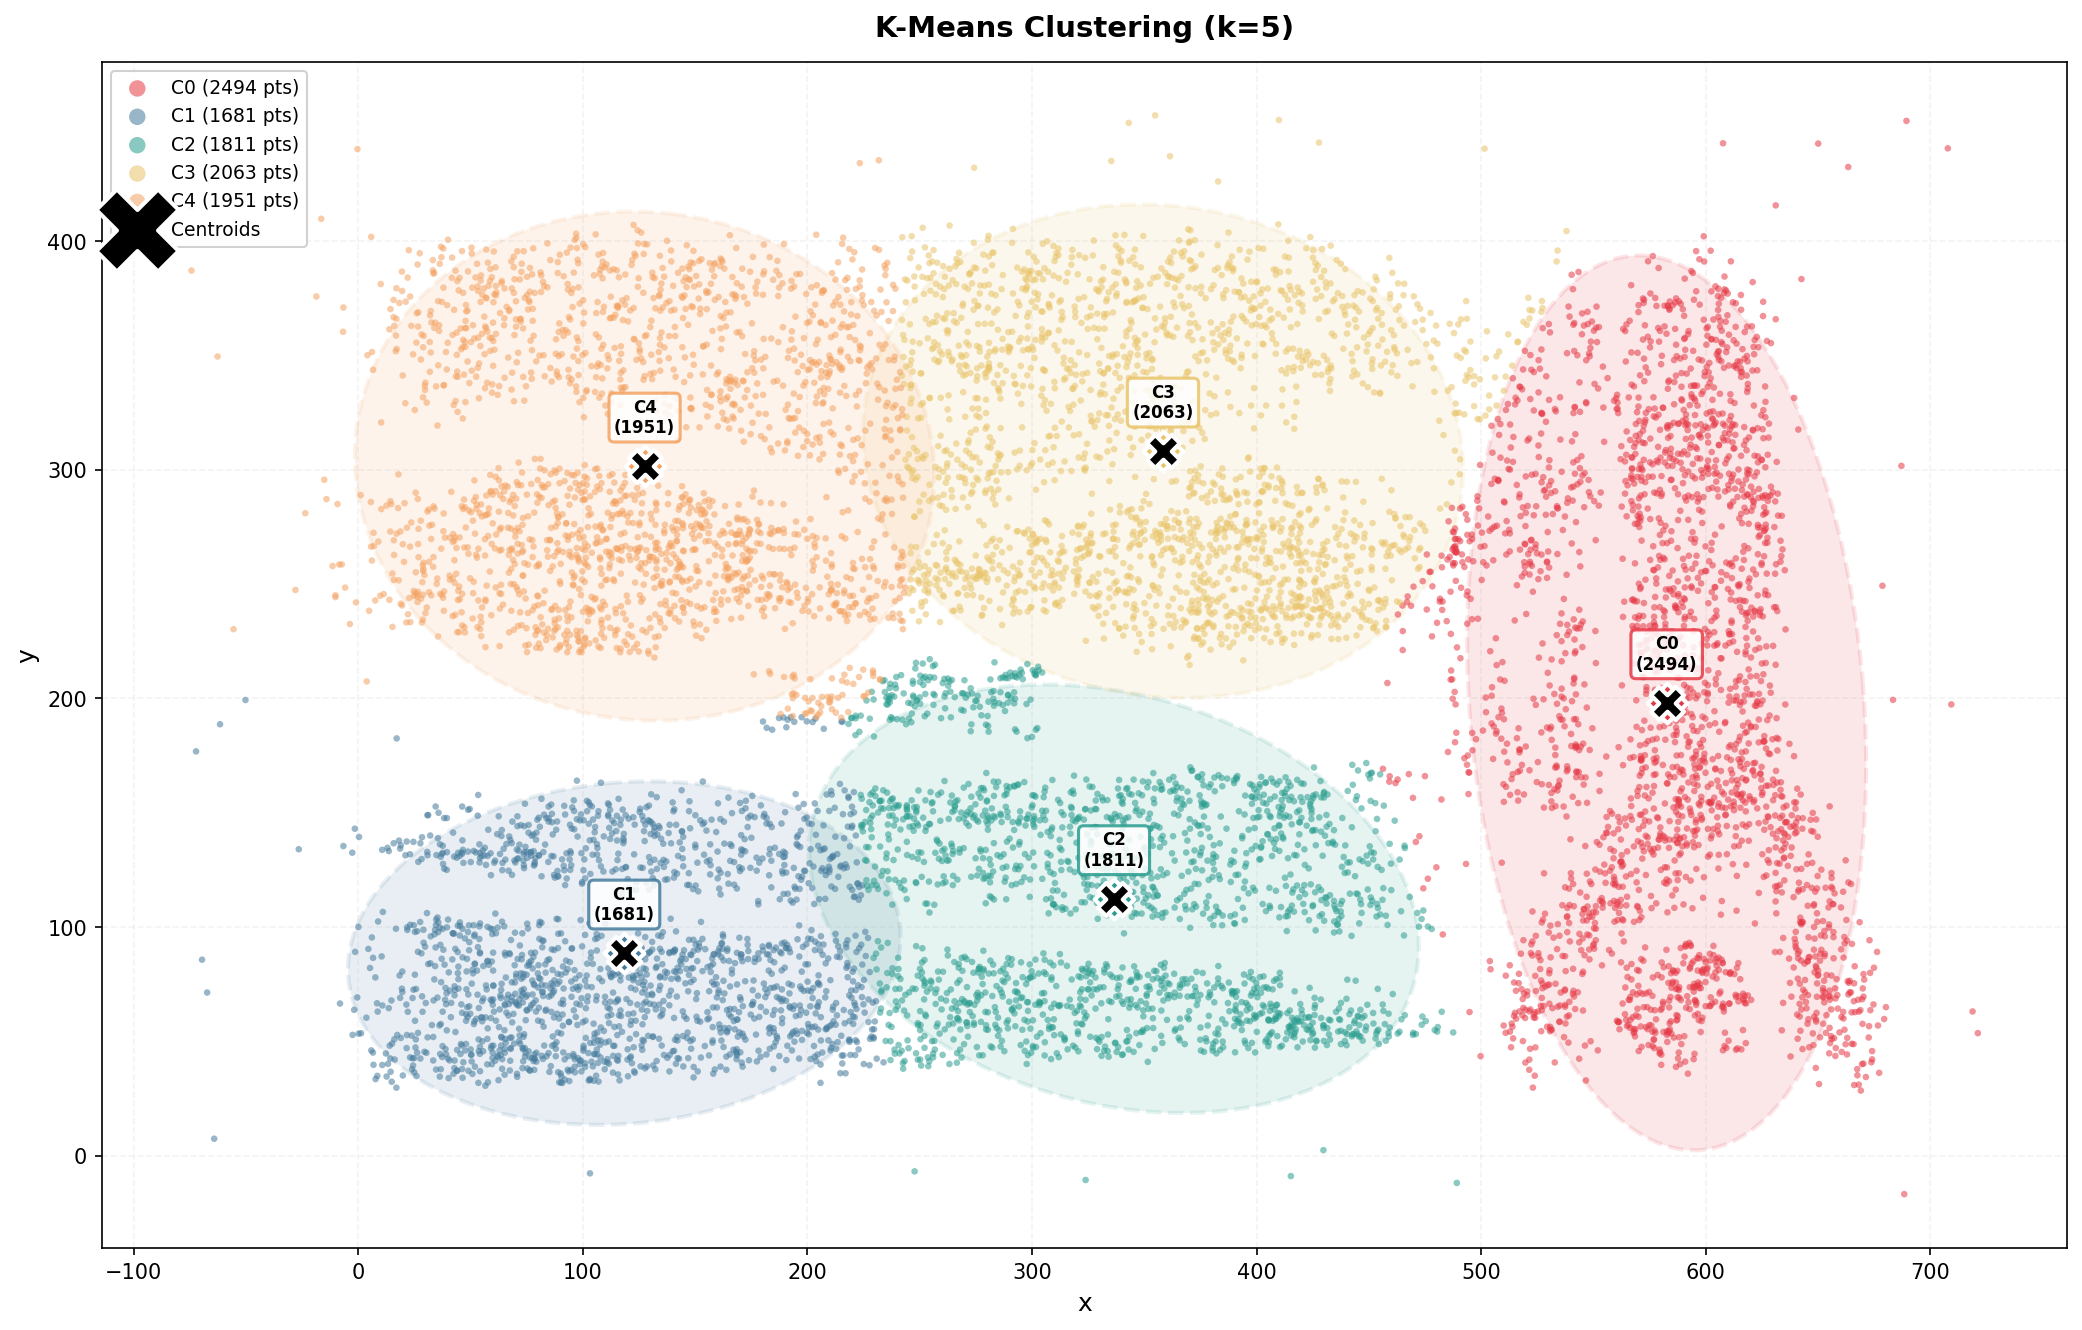
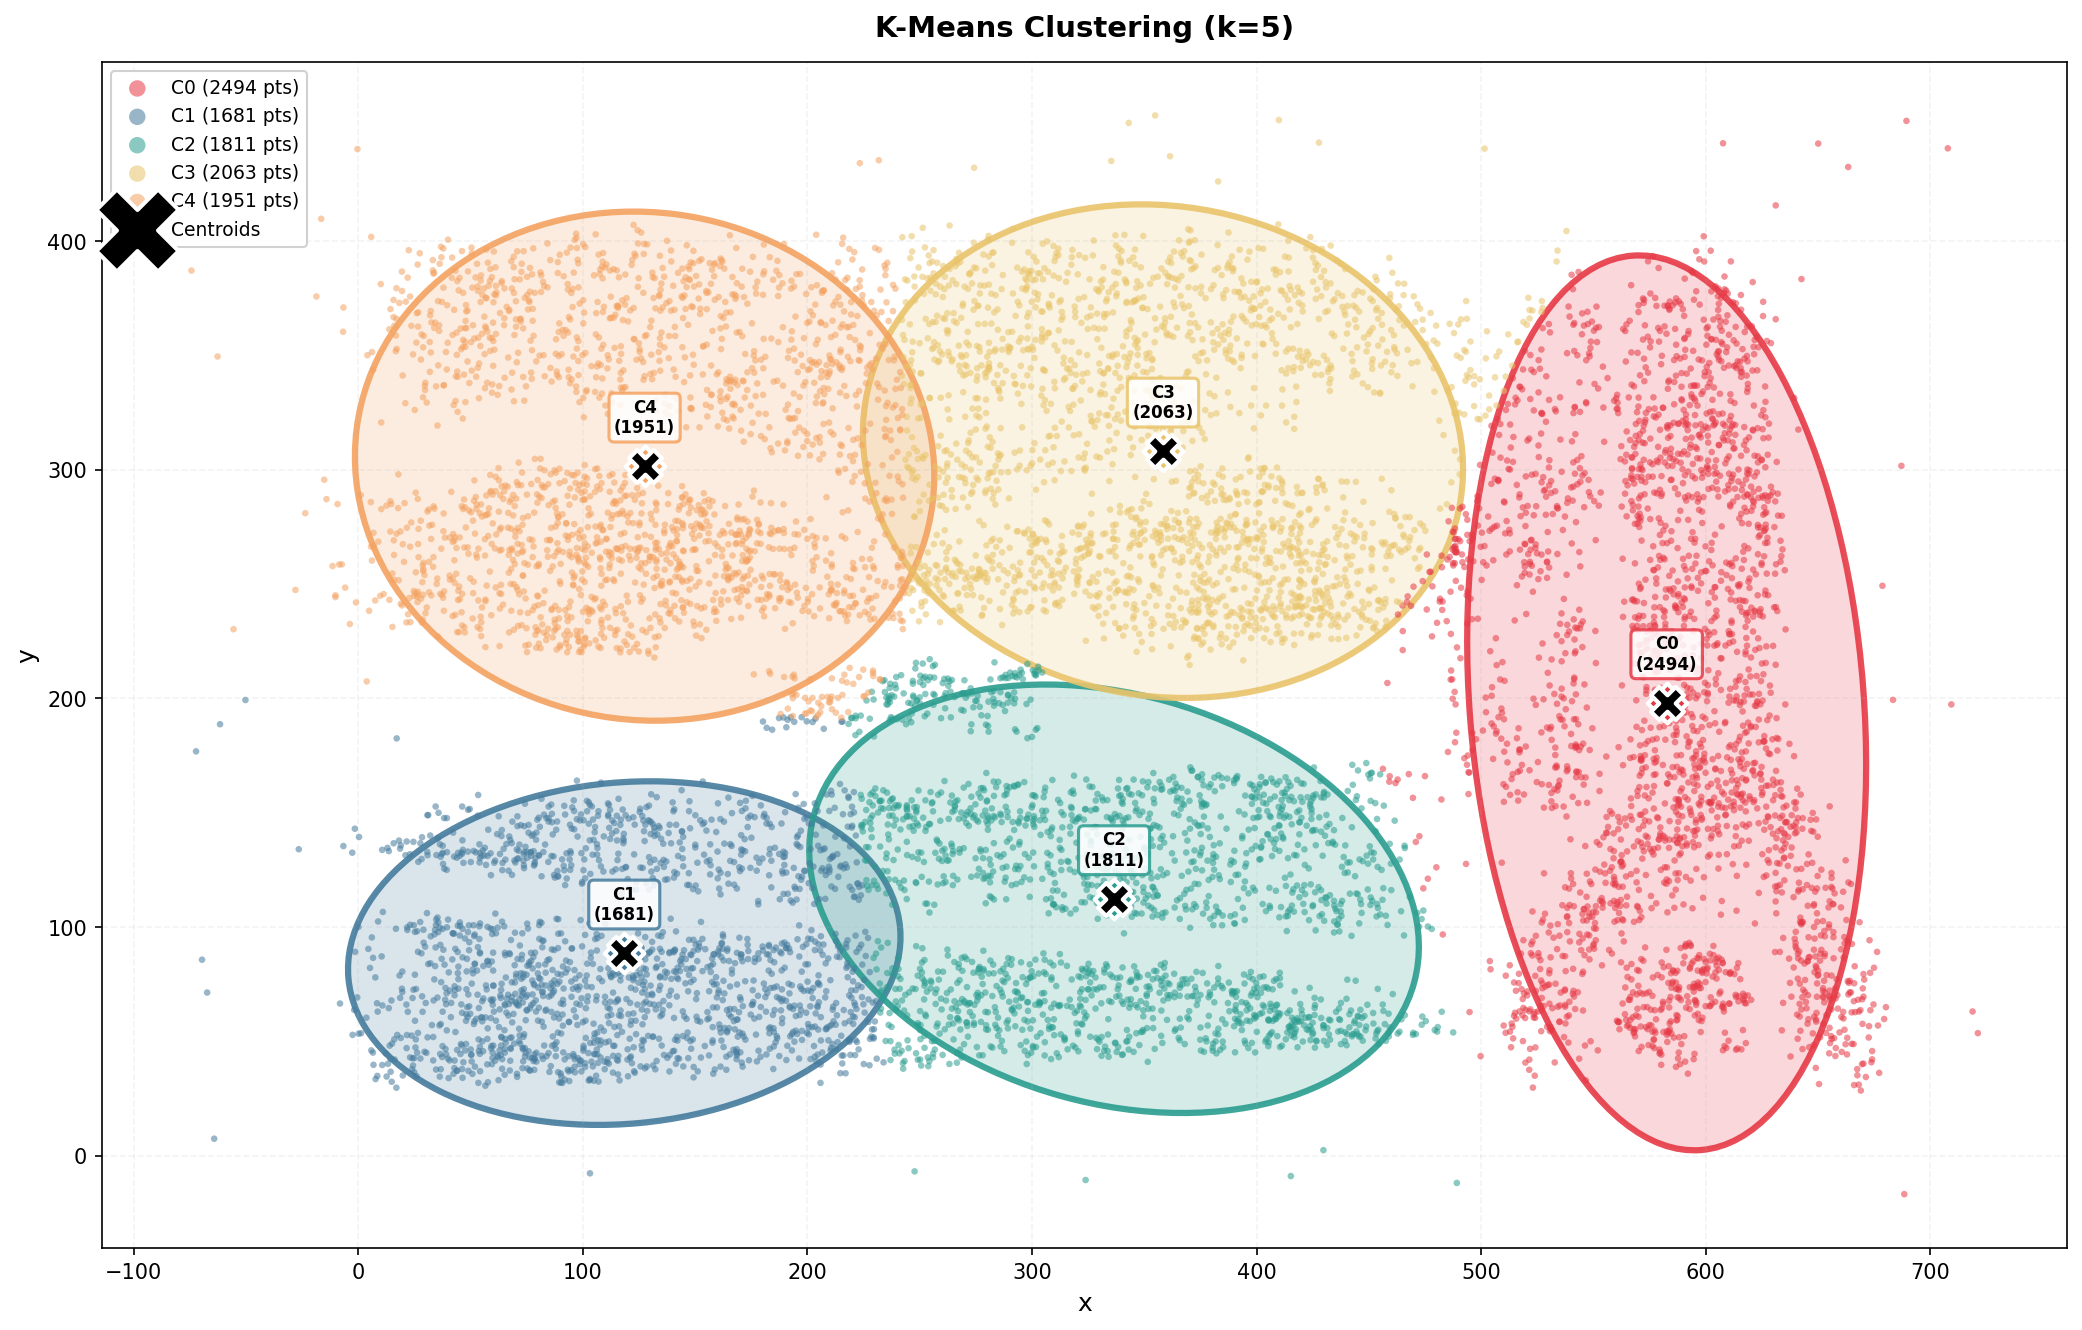
Refactor ellipse drawing to use separate fill and solid edge patches, and update visualization figures.

diff --git a/visualization.py b/visualization.py
@@ -25,12 +25,20 @@ def draw_cluster_ellipse(ax, points, color, alpha=0.15, n_std=2.0):
     width = 2 * n_std * np.sqrt(max(eigenvalues[0], 0))
     height = 2 * n_std * np.sqrt(max(eigenvalues[1], 0))
 
-    ellipse = Ellipse(
+    # Filled semi-transparent background
+    ellipse_fill = Ellipse(
         xy=mean, width=width, height=height, angle=angle,
-        facecolor=color, alpha=alpha, edgecolor=color,
-        linewidth=2, linestyle="--",
+        facecolor=color, edgecolor="none", alpha=alpha
     )
-    ax.add_patch(ellipse)
+    ax.add_patch(ellipse_fill)
+
+    # Solid, thick edge for clear, visible boundary
+    ellipse_edge = Ellipse(
+        xy=mean, width=width, height=height, angle=angle,
+        facecolor="none", edgecolor=color,
+        linewidth=3, linestyle="-", alpha=0.9
+    )
+    ax.add_patch(ellipse_edge)
 
 
 def plot_clusters_detailed(ax, data, labels, n_clusters, title,
@@ -54,7 +62,7 @@ def plot_clusters_detailed(ax, data, labels, n_clusters, title,
         centroid = pts.mean(axis=0)
 
         if show_ellipses and len(pts) > 10:
-            draw_cluster_ellipse(ax, pts, color, alpha=0.12, n_std=2.0)
+            draw_cluster_ellipse(ax, pts, color, alpha=0.20, n_std=2.0)
 
         ax.scatter(
             pts[:, 0], pts[:, 1],
